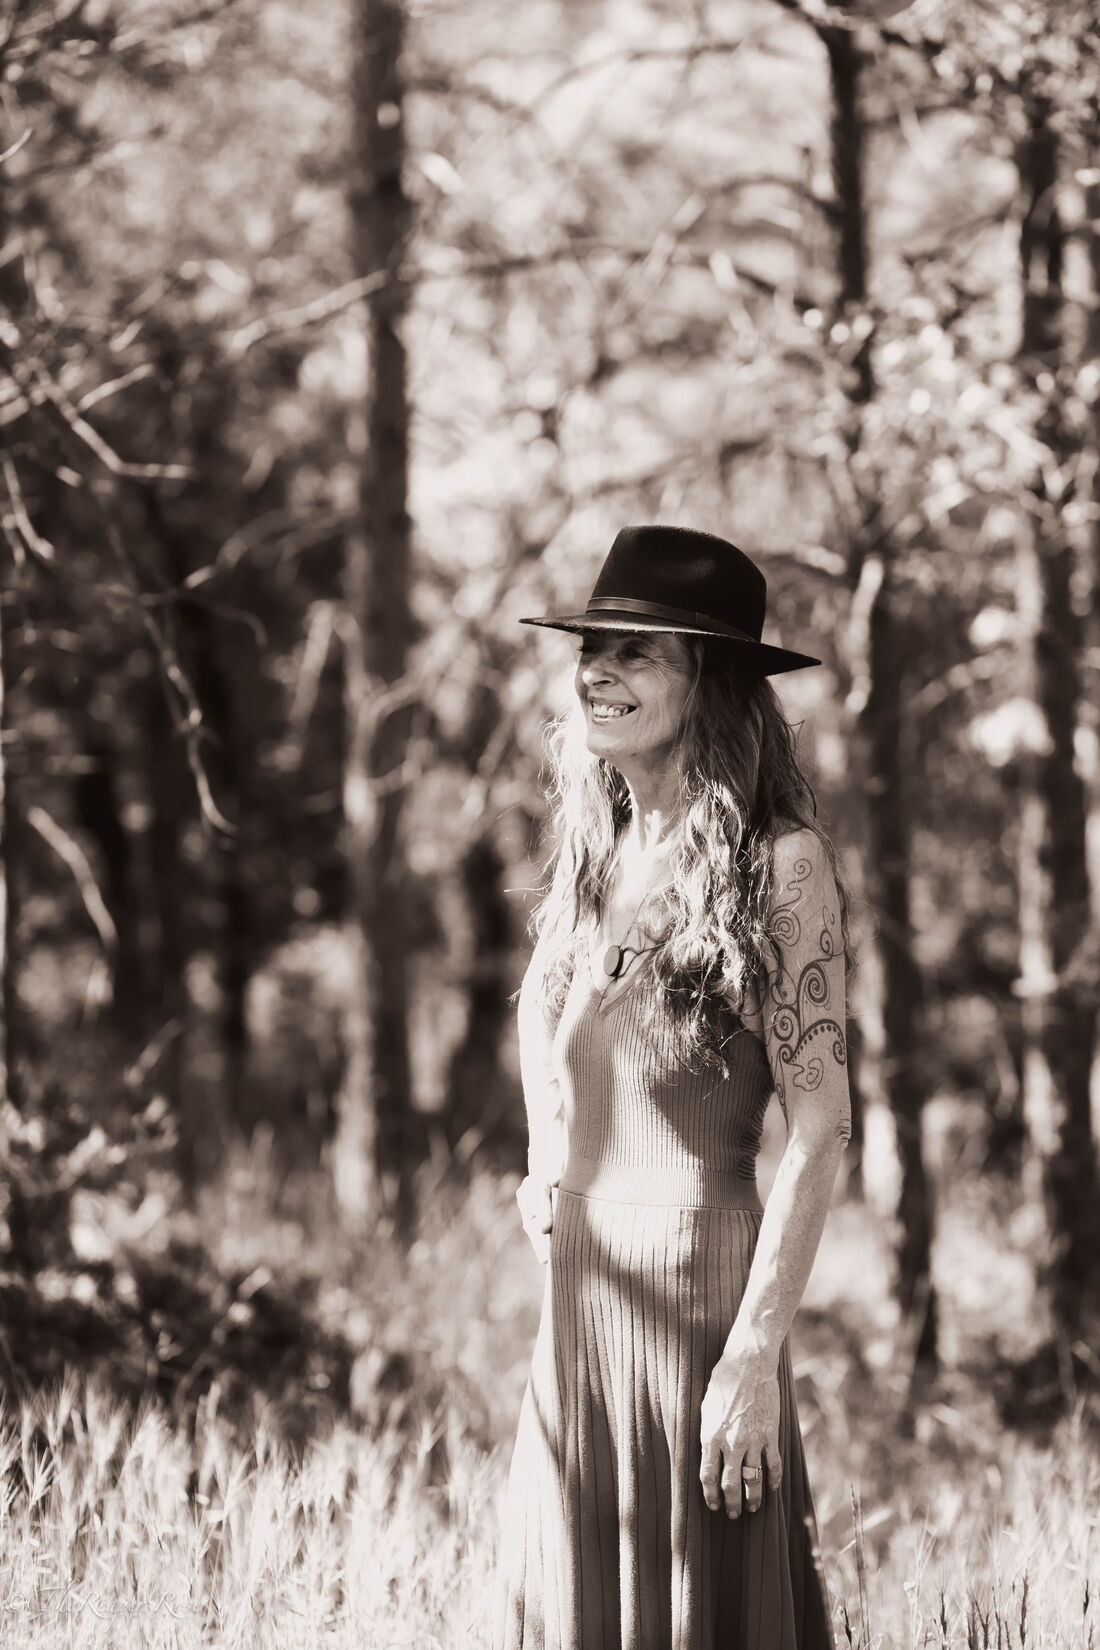
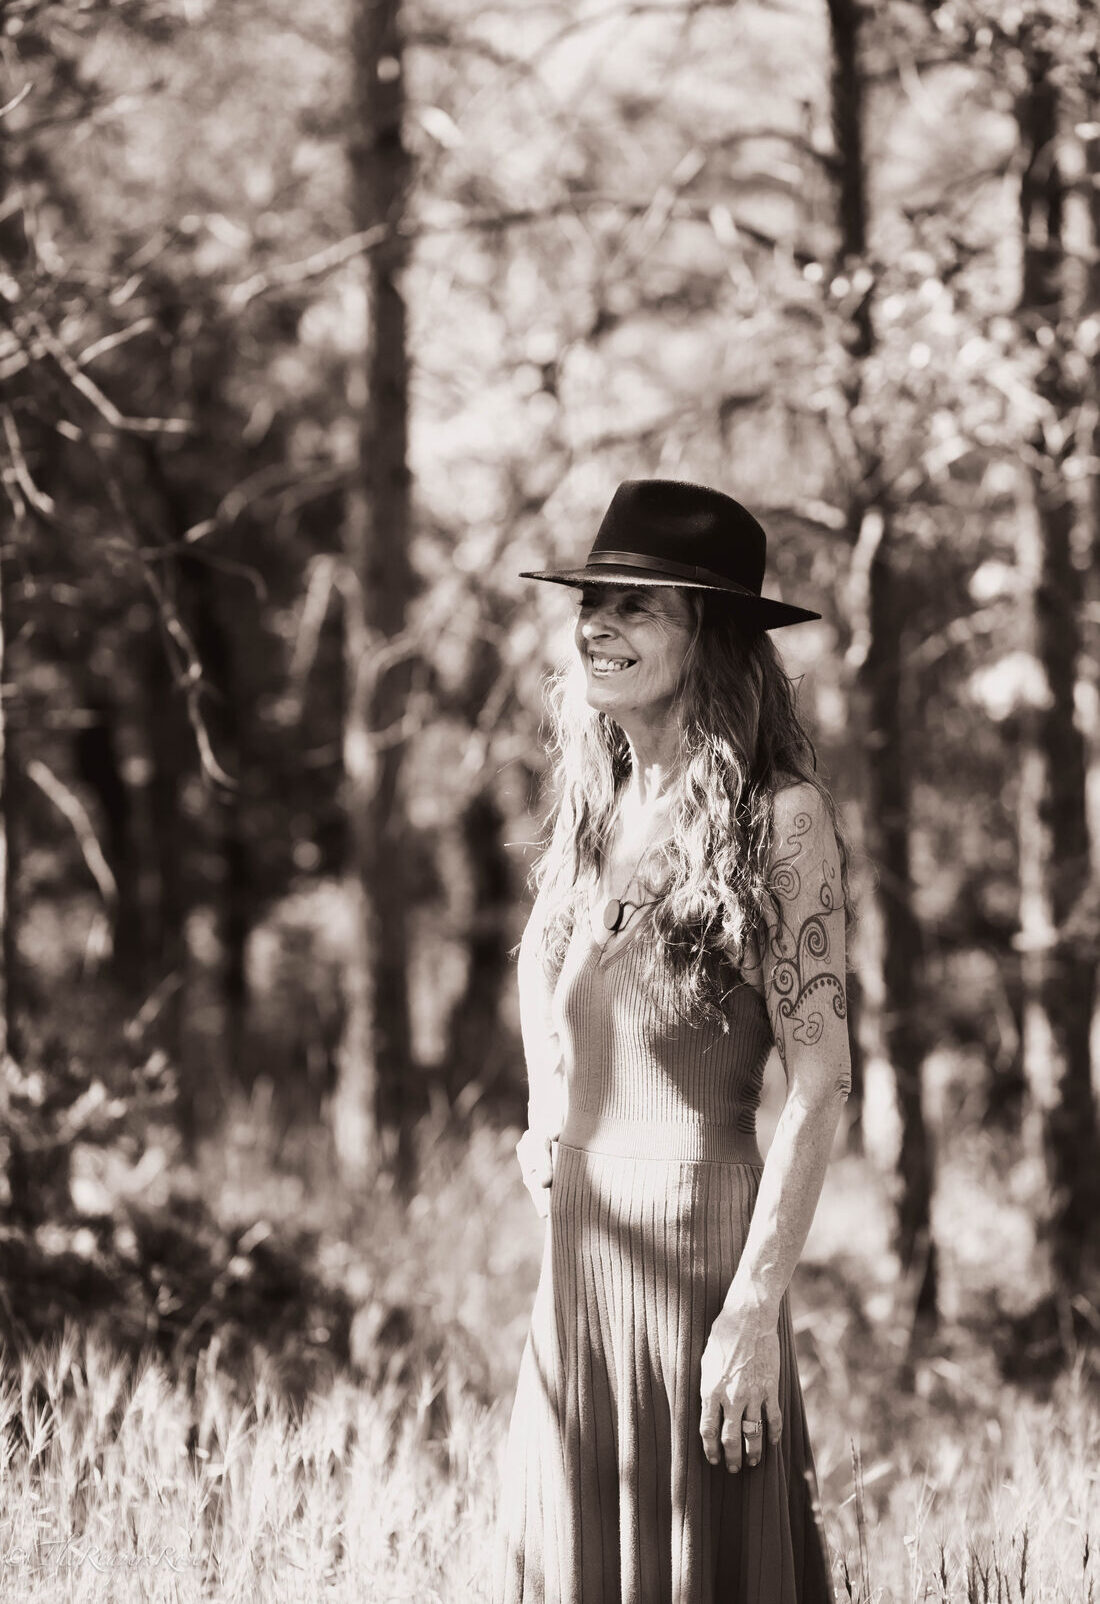
Consultations first, socials at the bottom with Facebook, portrait on the golden line
- Remove the hero follow button
- Ways in: consultations, The Names of Light, the Women's Circle
- New closing section: Follow Messages in Plasma, Instagram and Facebook
- Portrait cropped from the top so her eyes sit 38.2% down, shown whole

Claude-Session: https://claude.ai/code/session_011ec3kPvR64sUUTsCRkqLaM

diff --git a/docs/index.html b/docs/index.html
@@ -41,10 +41,10 @@
     img { display: block; max-width: 100%; height: auto; }
     .hero {
       display: grid;
-      grid-template-columns: minmax(0, 1fr) minmax(0, 1fr);
-      min-height: 92vh;
+      grid-template-columns: minmax(0, 34rem) minmax(0, 1fr);
     }
-    .hero-photo { background: url('assets/fiona-portrait.jpg') center 30% / cover no-repeat; min-height: 360px; }
+    /* Shown whole, never trimmed: the file is cropped so her eyes sit on the golden line (38.2% from the top). */
+    .hero-photo { width: 100%; height: auto; }
     .hero-text {
       display: grid;
       align-content: center;
@@ -96,6 +96,22 @@
     .band-text { display: grid; align-content: center; gap: 1rem; padding: 3.5rem 2rem; }
     .band-text p { margin: 0; }
     .honour { font-family: var(--display); font-style: italic; font-size: 1.5rem; line-height: 1.35; color: var(--gold); }
+    .follow { text-align: center; justify-items: center; }
+    .follow-links { display: flex; flex-wrap: wrap; justify-content: center; gap: 1rem; margin-top: .4rem; }
+    .follow-links a {
+      display: grid;
+      gap: .15rem;
+      min-width: 12rem;
+      padding: .9rem 1.4rem;
+      color: var(--gold);
+      border: 1px solid var(--line);
+      font-size: .8rem;
+      letter-spacing: .14em;
+      text-transform: uppercase;
+      text-decoration: none;
+    }
+    .follow-links a:hover, .follow-links a:focus-visible { border-color: var(--gold); }
+    .follow-links span { color: var(--ink-soft); font-size: .9rem; letter-spacing: 0; text-transform: none; }
     footer { padding: 2.5rem 1.25rem 3rem; text-align: center; color: var(--ink-soft); font-size: .88rem; display: grid; gap: .5rem; justify-items: center; }
     footer img { width: 44px; opacity: .9; }
     footer p { margin: 0; }
@@ -103,7 +119,6 @@
     a:focus-visible { outline: 2px solid var(--gold); outline-offset: 2px; }
     @media (max-width: 760px) {
       .hero, .band { grid-template-columns: 1fr; min-height: 0; }
-      .hero-photo { min-height: 62vh; }
       .hero-text { padding: 2.6rem 16px 3.2rem; }
       .ways { grid-template-columns: 1fr; }
       .band-photo { min-height: 60vh; }
@@ -113,11 +128,10 @@
 </head>
 <body>
   <header class="hero">
-    <div class="hero-photo" role="img" aria-label="Fiona Gardner in a wide-brimmed hat, smiling in a sunlit pine forest"></div>
+    <img class="hero-photo" src="assets/fiona-portrait.jpg" alt="Fiona Gardner in a wide-brimmed hat, smiling in a sunlit pine forest" width="1100" height="1604">
     <div class="hero-text">
       <h1><img class="brandmark" src="assets/fiona-gardner-brandmark.png" alt="Fiona Gardner" width="1000" height="270"></h1>
       <p class="line">An observer of life’s hidden waters.</p>
-      <a class="button" href="https://www.instagram.com/messagesinplasma/">Follow Messages in Plasma</a>
     </div>
   </header>
 
@@ -132,18 +146,6 @@
       <div class="shell">
         <p class="eyebrow">Ways in</p>
         <div class="ways">
-          <a class="way" href="https://www.instagram.com/messagesinplasma/">
-            <span class="tag">On Instagram</span>
-            <h3>Messages in Plasma</h3>
-            <p>Microscopy of blood, plasma and water, shared as it is seen.</p>
-            <span class="go">@messagesinplasma&nbsp; ↗</span>
-          </a>
-          <a class="way" href="https://anaseahawk.github.io/womens-shivambu-circle/">
-            <span class="tag">Drop-in circle</span>
-            <h3>Women’s Shivambu Circle</h3>
-            <p>Held together with Ana Seahawk and Megan Macdonald. Curiosity is enough.</p>
-            <span class="go">The circle&nbsp; ↗</span>
-          </a>
           <div class="way">
             <span class="tag">Coming soon</span>
             <h3>Blood consultations</h3>
@@ -154,6 +156,12 @@
             <h3>The Names of Light</h3>
             <p>A series in which these discoveries flow into story, inviting readers to see more deeply and feel more fully.</p>
           </div>
+          <a class="way" href="https://anaseahawk.github.io/womens-shivambu-circle/">
+            <span class="tag">Drop-in circle</span>
+            <h3>Women’s Shivambu Circle</h3>
+            <p>Held together with Ana Seahawk and Megan Macdonald. Curiosity is enough.</p>
+            <span class="go">The circle&nbsp; ↗</span>
+          </a>
         </div>
       </div>
     </section>
@@ -163,6 +171,14 @@
       <div class="band-text">
         <p class="honour">Recognising the light, water and intelligence within ourselves.</p>
         <p class="soft">Honouring the harmony of the body, mind and spirit.</p>
+      </div>
+    </section>
+    <section class="shell follow">
+      <h2>Follow Messages in Plasma</h2>
+      <p class="soft">Microscopy of blood, plasma and water, shared as it is seen.</p>
+      <div class="follow-links">
+        <a href="https://www.instagram.com/messagesinplasma/">Instagram&nbsp; ↗<span>@messagesinplasma</span></a>
+        <a href="https://www.facebook.com/fiona.f.gardner">Facebook&nbsp; ↗<span>Fiona Gardner</span></a>
       </div>
     </section>
   </main>
